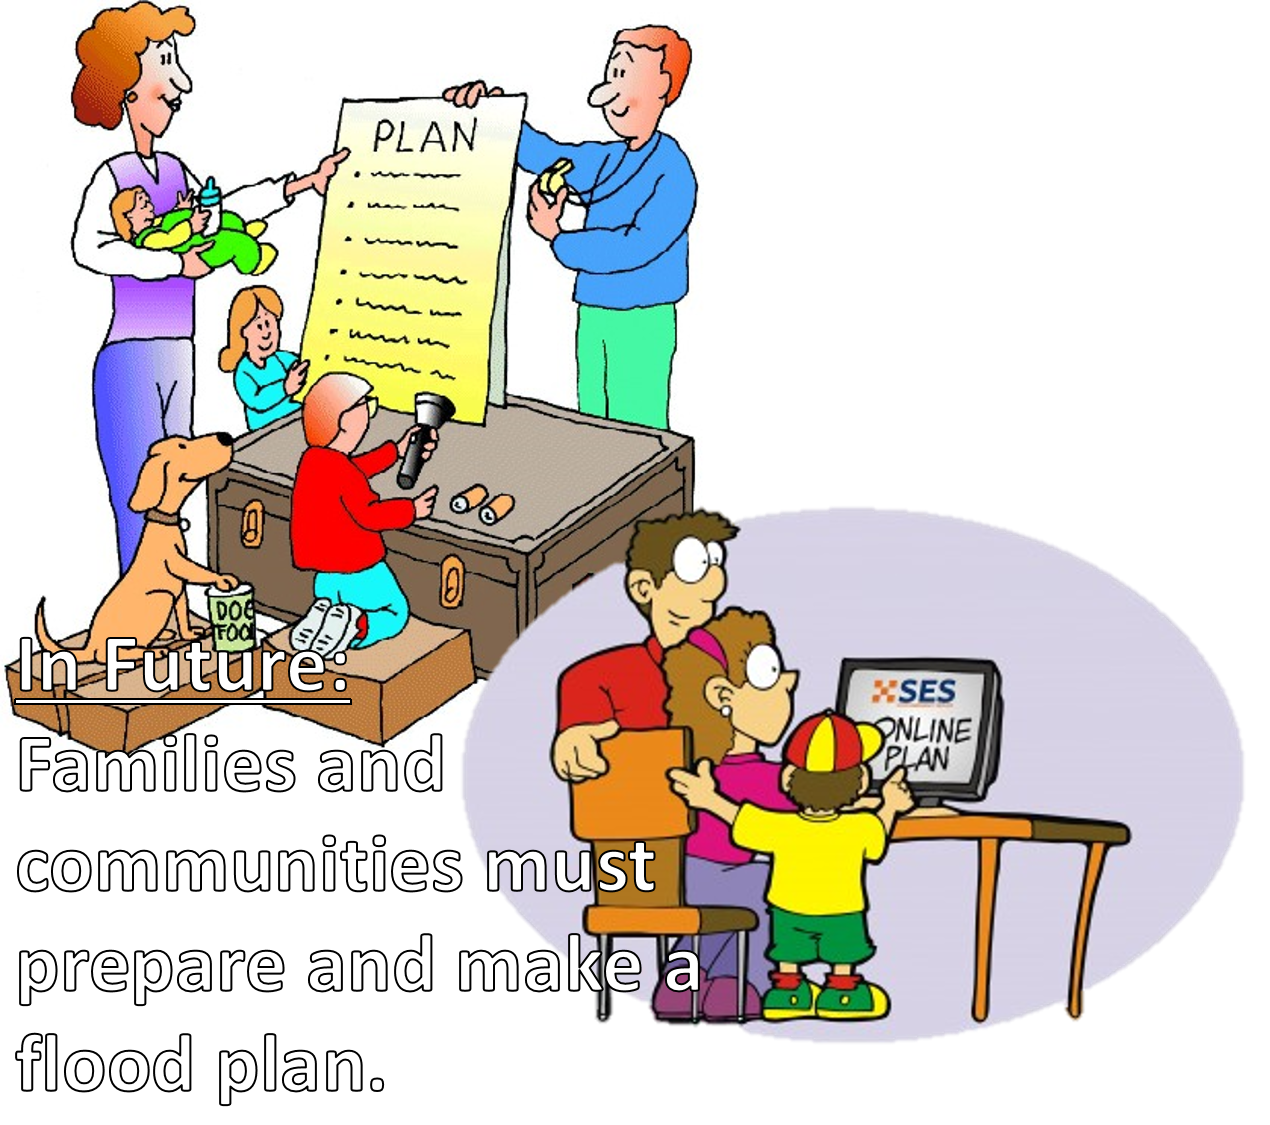
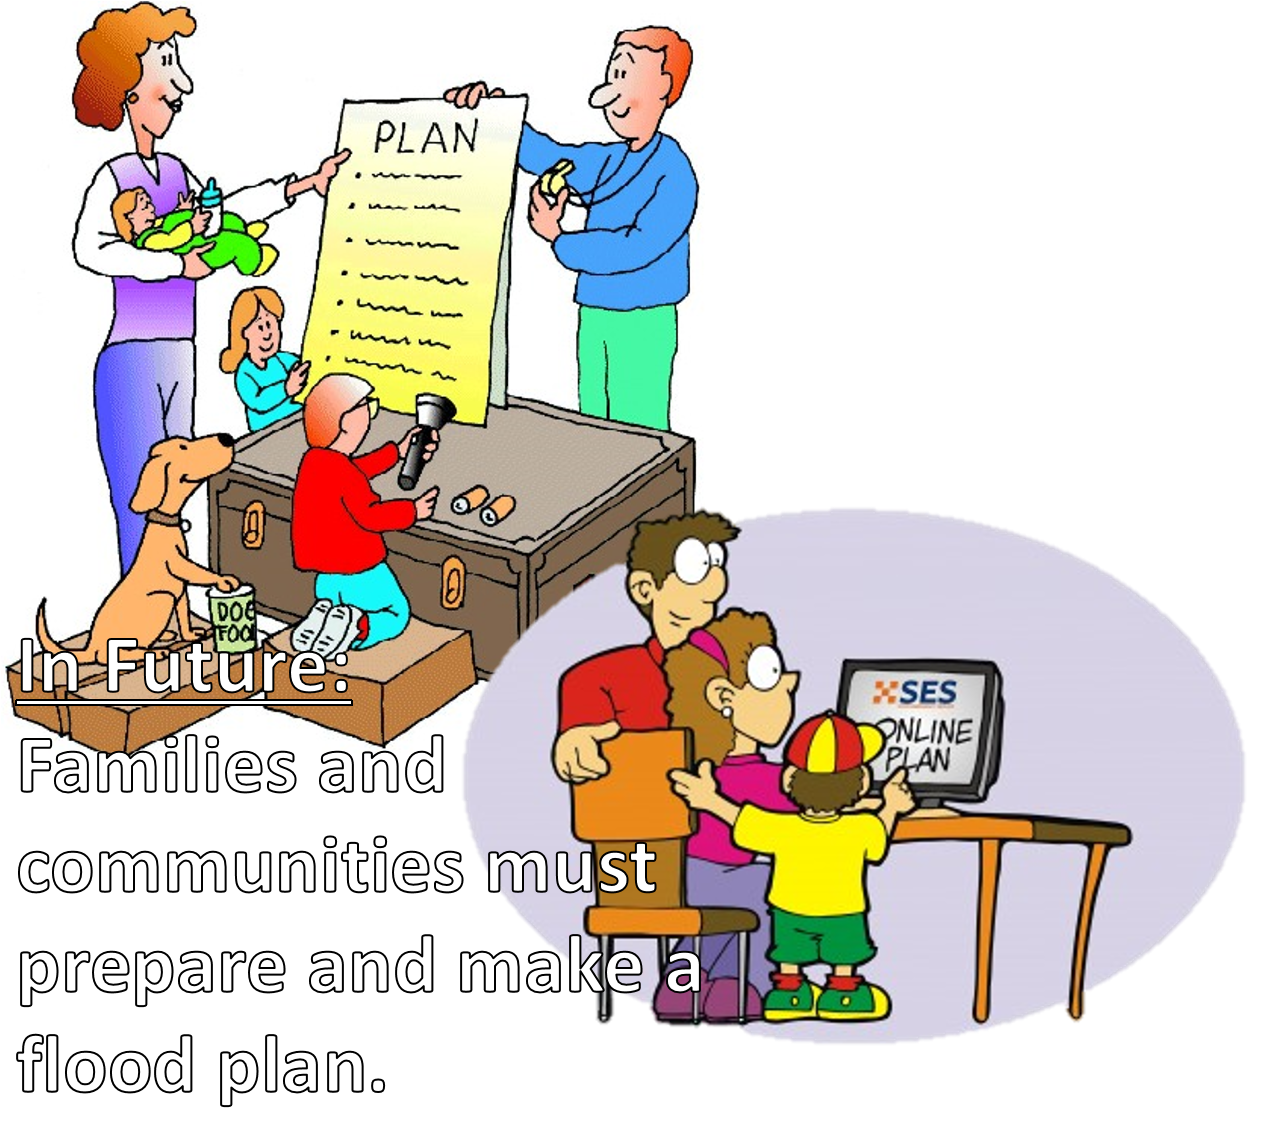
Update 3.1
-Minor image changes
-maxRoll 10 -> 5

diff --git a/FloodsAndLadders.py b/FloodsAndLadders.py
@@ -41,7 +41,7 @@ picGap = 5          #size of the gap between pictures and the edges of the windo
 txtGap = 30
 
 minRoll = -2        #the minimum and maximum die roll
-maxRoll = 10
+maxRoll = 5
 minPosRoll = 3      #the minimum required for roll to be considered positive
 newRandCard = True
 cardI = 0
